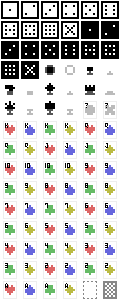
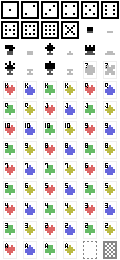
Update resource.

diff --git a/apps.html b/apps.html
@@ -158,16 +158,16 @@ input {
 				</a>
 			</div>
 			<div class="disc en">
-				<a href="goban/?b1x2x8&b=a54b44a45b55">b1x2x8</a> is the Reversi board. You can places or flips black and white pieces on the board.
-				<a href="goban/?24b2x8&p=1/2&b=a18a38a58a78a27a47a67a87a16a36a56a76b23b43b63b83b12b32b52b72b21b41b61b81">b2x8</a> is the Checker board.
-				<a href="goban/?32b12x8&p=1/2&b=i11e21g31k41m51g61e71i81c12c22c32c42c52c62c72c82d17d27d37d47d57d67d77d87j18f28h38l48n58h68f78j88">b12x8</a> is the Chess board.
+				<a href="goban/?b1x2x8&b=b44a54a45b55">b1x2x8</a> is the Reversi board. You can places or flips black and white pieces on the board.
+				<a href="goban/?24b2x8&p=1/2&b=a23a43a63a83a12a32a52a72a21a41a61a81b18b38b58b78b27b47b67b87b16b36b56b76">b2x8</a> is the Checker board.
+				<a href="goban/?32b12x8&p=1/2&b=g11c21e31i41k51e61c71g81a12a22a32a42a52a62a72a82b17b27b37b47b57b67b77b87h18d28f38j48l58f68d78h88">b12x8</a> is the Chess board.
 				<a href="goban/?b2x7">b2x7</a> (7x7) / <a href="goban/?b2x9">b2x9</a> (9x9) / <a href="goban/?b2x13">b2x13</a> (13x13) is the board for the Igo.
 				<span class="note">"Add to Homescreen" to use like as native app.</span>
 			</div>
 			<div class="disc ja">
-			<a href="goban/?b1x2x8&b=a54b44a45b55">b1x2x8</a> はリバーシ盤です。ボードに黒と白のコマをおいたりひっくりかえしたりします。<!--
-			--><a href="goban/?24b2x8&p=1/2&b=a18a38a58a78a27a47a67a87a16a36a56a76b23b43b63b83b12b32b52b72b21b41b61b81">b2x8</a>はチェッカー盤です。<!--
-			--><a href="goban/?32b12x8&p=1/2&b=i11e21g31k41m51g61e71i81c12c22c32c42c52c62c72c82d17d27d37d47d57d67d77d87j18f28h38l48n58h68f78j88">b12x8</a> はチェス盤です。<!--
+			<a href="goban/?b1x2x8&b=b44a54a45b55">b1x2x8</a> はリバーシ盤です。ボードに黒と白のコマをおいたりひっくりかえしたりします。<!--
+			--><a href="goban/?24b2x8&p=1/2&b=a23a43a63a83a12a32a52a72a21a41a61a81b18b38b58b78b27b47b67b87b16b36b56b76">b2x8</a>はチェッカー盤です。<!--
+			--><a href="goban/?32b12x8&p=1/2&b=g11c21e31i41k51e61c71g81a12a22a32a42a52a62a72a82b17b27b37b47b57b67b77b87h18d28f38j48l58f68d78h88">b12x8</a> はチェス盤です。<!--
 			--><a href="goban/?b2x7">b2x7</a>(七路盤)・<a href="goban/?b2x9">b2x9</a>(九路盤)・<a href="goban/?b2x13">b2x13</a>(十三路盤) は囲碁盤です。<!--
 			--><span class="note">"ホーム画面に追加"をするとアプリのようにつかえます。</span>
 			</div>

diff --git a/goban/manifest.js b/goban/manifest.js
@@ -6,7 +6,7 @@ const manifest = {
 	"resource": "../square/resource.png",
 	"params": {
 		"dice": {
-			"face": 20
+			"face": 10
 		},
 		//* //goban
 		"board": {
@@ -16,14 +16,14 @@ const manifest = {
 			"count": 64
 		},
 		"players": [1, 1]
-		/*/ //reversi
+		/* //reversi
 		"board": {
 			"size": 8,
 			"type": 0,
 			"face": 1,
 			"flip": 2,
 			"count": 64,
-			"place": [[1,4,4],[2,5,4],[2,4,5],[1,5,5]]
+			"place": [[2,4,4],[1,5,4],[1,4,5],[2,5,5]]
 		},
 		"players": [1, 1]
 		/* //chess
@@ -33,10 +33,10 @@ const manifest = {
 			"face": 12,
 			"count": 32,
 			"place": [
-				[9,1,1],[5,2,1],[7,3,1],[11,4,1],[13,5,1],[7,6,1],[5,7,1],[9,8,1],
-				[3,1,2],[3,2,2],[3,3,2],[3,4,2],[3,5,2],[3,6,2],[3,7,2],[3,8,2],
-				[4,1,7],[4,2,7],[4,3,7],[4,4,7],[4,5,7],[4,6,7],[4,7,7],[4,8,7],
-				[10,1,8],[6,2,8],[8,3,8],[12,4,8],[14,5,8],[8,6,8],[6,7,8],[10,8,8]]
+				[7,1,1],[3,2,1],[5,3,1],[9,4,1],[11,5,1],[5,6,1],[3,7,1],[7,8,1],
+				[1,1,2],[1,2,2],[1,3,2],[1,4,2],[1,5,2],[1,6,2],[1,7,2],[1,8,2],
+				[2,1,7],[2,2,7],[2,3,7],[2,4,7],[2,5,7],[2,6,7],[2,7,7],[2,8,7],
+				[8,1,8],[4,2,8],[6,3,8],[10,4,8],[12,5,8],[6,6,8],[4,7,8],[8,8,8]]
 		},
 		"players": [1, 2]
 		//*/
@@ -44,7 +44,7 @@ const manifest = {
 	"service": "../square/square-service.js"
 };
 
-// reversi: b1x2x8&b=a54b44a45b55
-// checker: 24b2x2x8&p=1/2&b=a18a38a58a78a27a47a67a87a16a36a56a76b23b43b63b83b12b32b52b72b21b41b61b81
-// chess: 32b12x8&p=1/2&b=i11e21g31k41m51g61e71i81c12c22c32c42c52c62c72c82d17d27d37d47d57d67d77d87j18f28h38l48n58h68f78j88
+// reversi: b1x2x8&b=b44a54a45b55
+// checker: 24b2x8&p=1/2&b=a23a43a63a83a12a32a52a72a21a41a61a81b18b38b58b78b27b47b67b87b16b36b56b76
+// chess: 32b12x8&p=1/2&b=g11c21e31i41k51e61c71g81a12a22a32a42a52a62a72a82b17b27b37b47b57b67b77b87h18d28f38j48l58f68d78h88
 

diff --git a/sai/manifest.js b/sai/manifest.js
@@ -8,7 +8,7 @@ const manifest = {
 		"dice": {
 			"count": 9,
 			"roll": 1,
-			"face": 20
+			"face": 10
 		}
 	},
 	"service": "../square/square-service.js"
